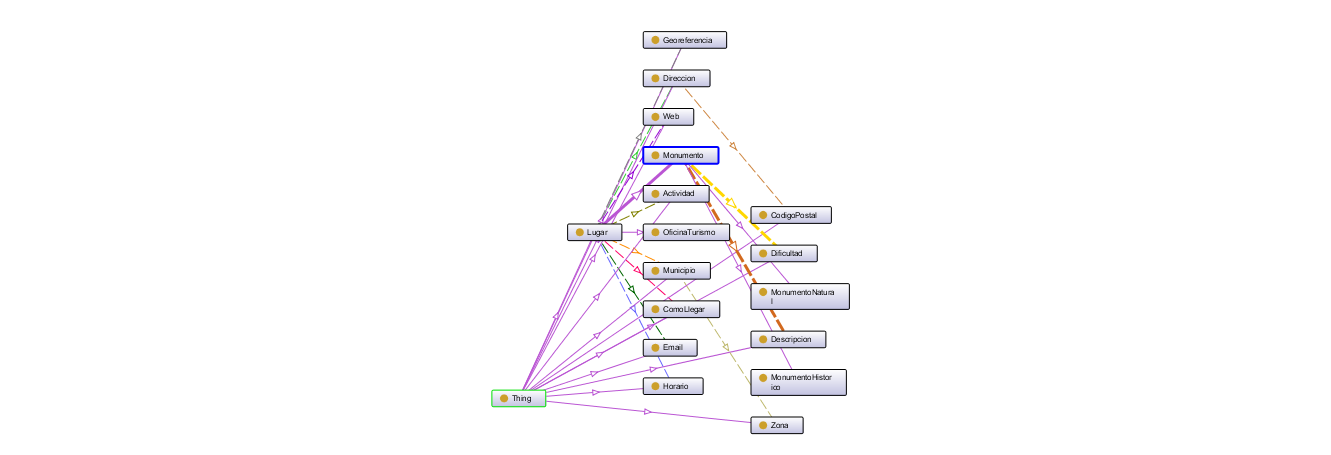
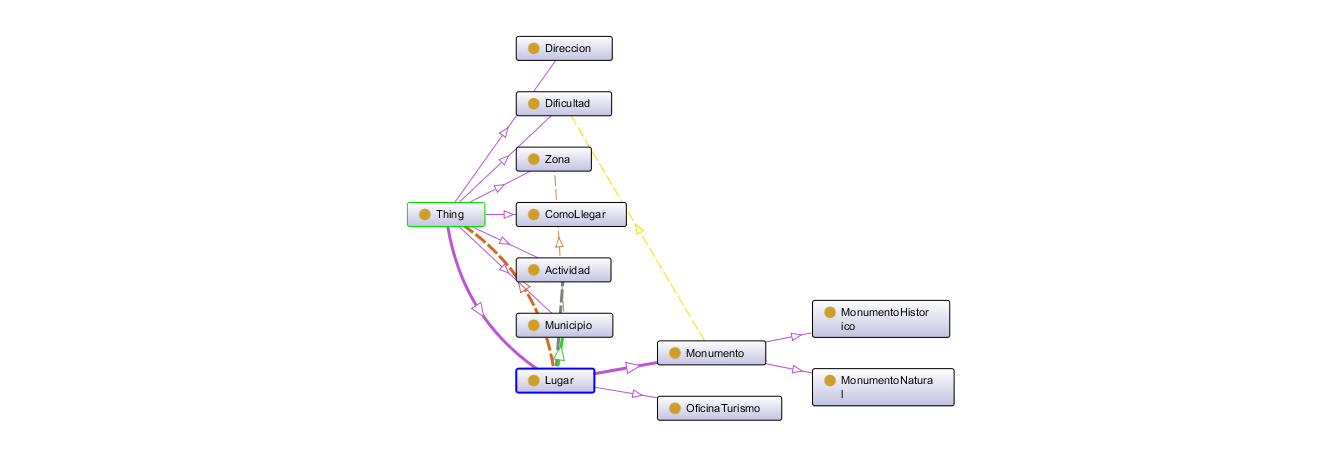
Corrections in naming strategy and owl file.

Changed region(s): [[0.308, 0.0615, 0.7393, 0.9538]]

diff --git a/HandsOn/Group10/analysis.html b/HandsOn/Group10/analysis.html
@@ -2998,7 +2998,8 @@ of the preservation of the metadata of the mentioned conditions.<o:p></o:p></spa
 
 <h1>Define Resource Naming Strategy</h1>
 <div>
-<p>We have chosen as base uri: http://www.tenerifetouristinformation.com/ontologies/lugares.owl, and both classes and properties are indicated by hash, for instance, http://www.tenerifetouristinformation.com/ontologies/lugares.owl#oficinaTurismo</p>
+<p>We have chosen as base uri: http://www.tenerifetouristinformation.com/ontologies/lugares, and both classes and properties are indicated by hash, for instance, http://www.tenerifetouristinformation.com/ontologies/lugares#oficinaTurismo, 
+the individuals are named in the same way.</p>
 </div>
 
 </body>
